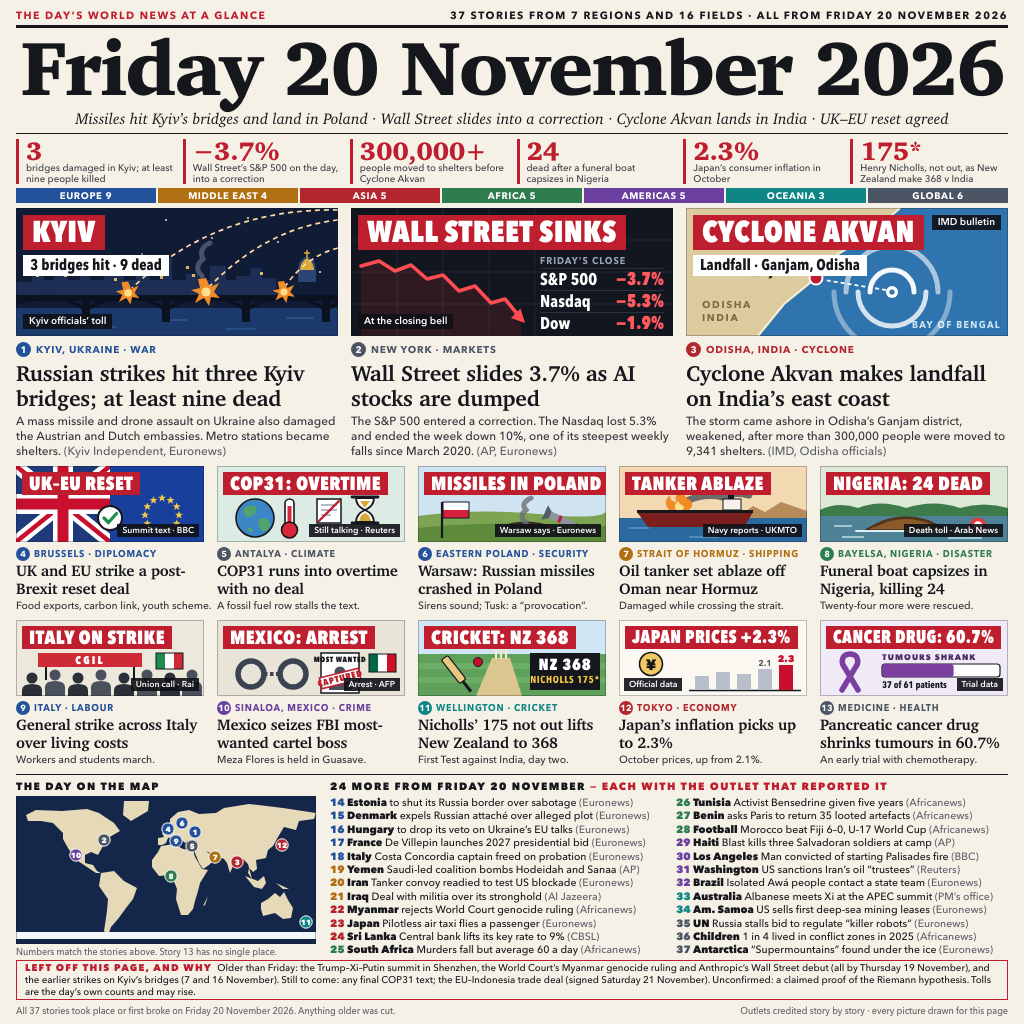
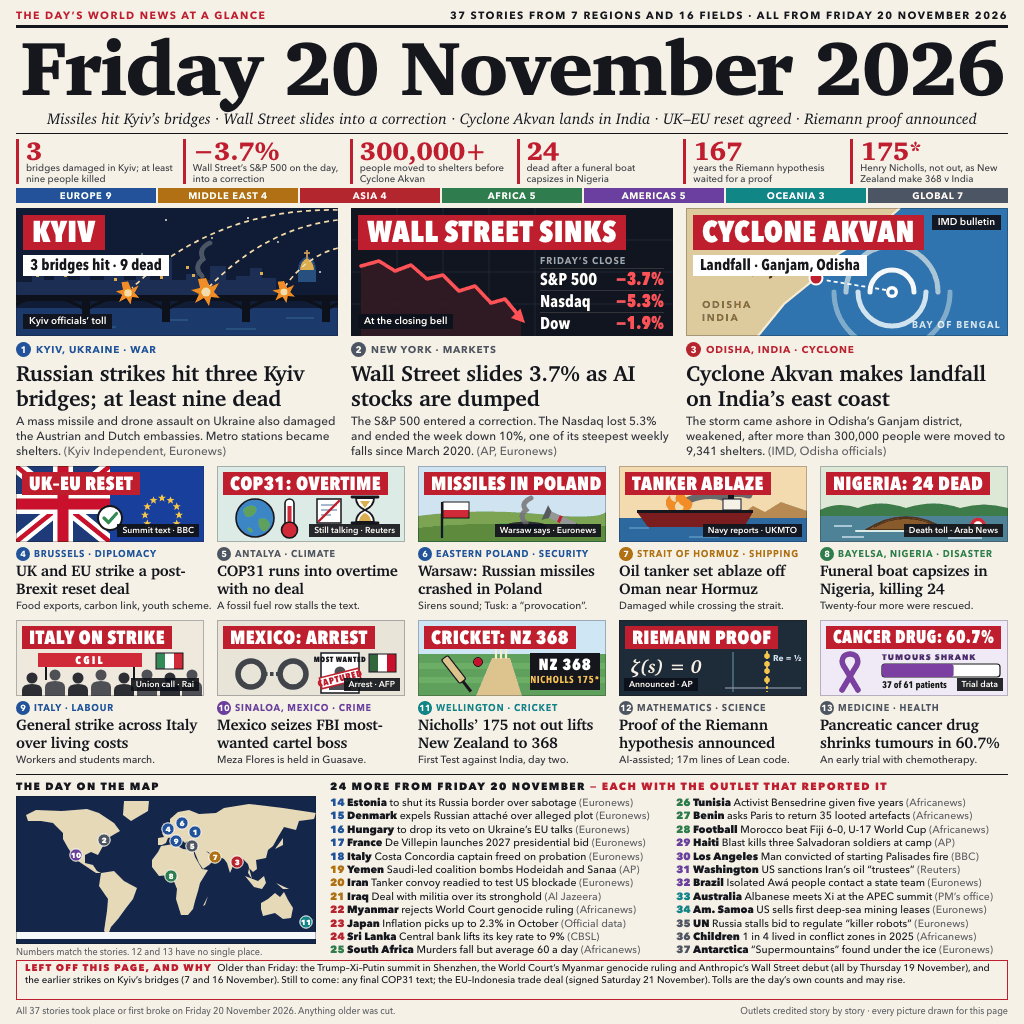
Add the announced proof of the Riemann hypothesis; cut the picture to 141 KB with a 160-colour palette

diff --git a/poster.html b/poster.html
@@ -97,7 +97,7 @@ h1{top:27px;height:80px;font:900 77px/80px var(--serif);letter-spacing:-2.2px;te
   <div class="abs kick"><span class="l">The day’s world news at a glance</span><span>37 stories from 7 regions and 16 fields · all from Friday 20 November 2026</span></div>
   <div class="abs bar" style="top:25px;height:3px"></div>
   <h1 class="abs">Friday 20 November 2026</h1>
-  <div class="abs deck">Missiles hit Kyiv’s bridges and land in Poland · Wall Street slides into a correction · Cyclone Akvan lands in India · UK–EU reset agreed</div>
+  <div class="abs deck">Missiles hit Kyiv’s bridges · Wall Street slides into a correction · Cyclone Akvan lands in India · UK–EU reset agreed · Riemann proof announced</div>
   <div class="abs bar" style="top:133px;height:1px"></div>
 
   <div class="abs nums">
@@ -105,12 +105,12 @@ h1{top:27px;height:80px;font:900 77px/80px var(--serif);letter-spacing:-2.2px;te
     <div><b>−3.7%</b><span>Wall Street’s S&amp;P 500 on the day, into a correction</span></div>
     <div><b>300,000+</b><span>people moved to shelters before Cyclone Akvan</span></div>
     <div><b>24</b><span>dead after a funeral boat capsizes in Nigeria</span></div>
-    <div><b>2.3%</b><span>Japan’s consumer inflation in October</span></div>
+    <div><b>167</b><span>years the Riemann hypothesis waited for a proof</span></div>
     <div><b>175*</b><span>Henry Nicholls, not out, as New Zealand make 368 v India</span></div>
   </div>
 
   <div class="abs regions">
-    <div class="eu">EUROPE 9</div><div class="me">MIDDLE EAST 4</div><div class="as">ASIA 5</div><div class="af">AFRICA 5</div><div class="am">AMERICAS 5</div><div class="oc">OCEANIA 3</div><div class="gl">GLOBAL 6</div>
+    <div class="eu">EUROPE 9</div><div class="me">MIDDLE EAST 4</div><div class="as">ASIA 4</div><div class="af">AFRICA 5</div><div class="am">AMERICAS 5</div><div class="oc">OCEANIA 3</div><div class="gl">GLOBAL 7</div>
   </div>
 
   <!-- 1 · Kyiv -->
@@ -367,21 +367,19 @@ h1{top:27px;height:80px;font:900 77px/80px var(--serif);letter-spacing:-2.2px;te
   <div class="story tile" style="left:619px;top:620px">
     <div class="pic">
       <svg viewBox="0 0 188 76">
-        <rect width="188" height="76" fill="#FBF8F1"/>
-        <circle cx="32" cy="44" r="11.500" fill="#F2C864" stroke="#15171C" stroke-width="1.6"/>
-        <text x="32" y="49.500" text-anchor="middle" font-family="Avenir Next,Helvetica Neue,Arial" font-weight="800" font-size="15" fill="#15171C">¥</text>
-        <path d="M70 70.500h112" stroke="#15171C" stroke-width="1.4"/>
-        <g fill="#B9BFCA"><rect x="76" y="56" width="14" height="14"/><rect x="97" y="52" width="14" height="18"/><rect x="118" y="54" width="14" height="16"/><rect x="139" y="49" width="14" height="21"/></g>
-        <rect x="160" y="45" width="14" height="25" fill="#C8102E"/>
-        <text x="146" y="46" text-anchor="middle" font-family="Avenir Next,Helvetica Neue,Arial" font-weight="700" font-size="8.500" fill="#5A5E67">2.1</text>
-        <text x="167" y="41.500" text-anchor="middle" font-family="Avenir Next,Helvetica Neue,Arial" font-weight="800" font-size="9.500" fill="#C8102E">2.3</text>
+        <rect width="188" height="76" fill="#1E2B38"/>
+        <text x="12" y="53" font-family="Charter,Georgia,serif" font-style="italic" font-weight="700" font-size="19" fill="#F4F1EA">ζ(s) = 0</text>
+        <path d="M106 68h76M114 32v40" stroke="#6F8296" stroke-width="1.3"/>
+        <path d="M148 31v41" stroke="#F6C945" stroke-width="1.8" stroke-dasharray="3 2"/>
+        <g fill="#F6C945"><circle cx="148" cy="36" r="2.800"/><circle cx="148" cy="44" r="2.800"/><circle cx="148" cy="51" r="2.800"/><circle cx="148" cy="60" r="2.800"/></g>
+        <text x="154" y="41" font-family="Avenir Next,Helvetica Neue,Arial" font-weight="700" font-size="8.500" fill="#CFE5F6">Re = ½</text>
       </svg>
-      <div class="chip sm">Japan prices +2.3%</div>
-      <div class="src" style="right:auto;left:5px">Official data</div>
+      <div class="chip">Riemann proof</div>
+      <div class="src" style="right:auto;left:5px">Announced · AP</div>
     </div>
-    <div class="tag c-as"><b class="n as">12</b>Tokyo · Economy</div>
-    <h2>Japan’s inflation picks up to 2.3%</h2>
-    <p>October prices, up from 2.1%.</p>
+    <div class="tag c-gl"><b class="n gl">12</b>Mathematics · Science</div>
+    <h2>Proof of the Riemann hypothesis announced</h2>
+    <p>AI-assisted; 17m lines of Lean code.</p>
   </div>
 
   <div class="story tile" style="left:820px;top:620px">
@@ -434,11 +432,10 @@ h1{top:27px;height:80px;font:900 77px/80px var(--serif);letter-spacing:-2.2px;te
           <g><circle cx="160" cy="40" r="6.200" fill="#23529B" stroke="#fff" stroke-width="1"/><text x="160" y="42.700">9</text></g>
           <g><circle cx="60" cy="54" r="6.200" fill="#6A3FA0" stroke="#fff" stroke-width="1"/><text x="60" y="56.700">10</text></g>
           <g><circle cx="290" cy="121" r="6.200" fill="#0F8686" stroke="#fff" stroke-width="1"/><text x="290" y="123.700">11</text></g>
-          <g><circle cx="266" cy="44" r="6.200" fill="#B3262E" stroke="#fff" stroke-width="1"/><text x="266" y="46.700">12</text></g>
         </g>
       </svg>
     </div>
-    <small>Numbers match the stories above. Story 13 has no single place.</small>
+    <small>Numbers match the stories. 12 and 13 have no single place.</small>
   </div>
 
   <!-- also -->
@@ -454,7 +451,7 @@ h1{top:27px;height:80px;font:900 77px/80px var(--serif);letter-spacing:-2.2px;te
       <li><u class="c-me">20</u><b>Iran</b> Tanker convoy readied to test US blockade <i>(Euronews)</i></li>
       <li><u class="c-me">21</u><b>Iraq</b> Deal with militia over its stronghold <i>(Al Jazeera)</i></li>
       <li><u class="c-as">22</u><b>Myanmar</b> rejects World Court genocide ruling <i>(Africanews)</i></li>
-      <li><u class="c-as">23</u><b>Japan</b> Pilotless air taxi flies a passenger <i>(Euronews)</i></li>
+      <li><u class="c-as">23</u><b>Japan</b> Inflation picks up to 2.3% in October <i>(Official data)</i></li>
       <li><u class="c-as">24</u><b>Sri Lanka</b> Central bank lifts its key rate to 9% <i>(CBSL)</i></li>
       <li><u class="c-af">25</u><b>South Africa</b> Murders fall but average 60 a day <i>(Africanews)</i></li>
       <li><u class="c-af">26</u><b>Tunisia</b> Activist Bensedrine given five years <i>(Africanews)</i></li>
@@ -472,7 +469,7 @@ h1{top:27px;height:80px;font:900 77px/80px var(--serif);letter-spacing:-2.2px;te
     </ol>
   </div>
 
-  <div class="abs check"><b>LEFT OFF THIS PAGE, AND WHY</b>Older than Friday: the Trump–Xi–Putin summit in Shenzhen, the World Court’s Myanmar genocide ruling and Anthropic’s Wall Street debut (all by Thursday 19 November), and the earlier strikes on Kyiv’s bridges (7 and 16 November). Still to come: any final COP31 text; the EU–Indonesia trade deal (signed Saturday 21 November). Unconfirmed: a claimed proof of the Riemann hypothesis. Tolls are the day’s own counts and may rise.</div>
+  <div class="abs check"><b>LEFT OFF THIS PAGE, AND WHY</b>Older than Friday: the Trump–Xi–Putin summit in Shenzhen, the World Court’s Myanmar genocide ruling and Anthropic’s Wall Street debut (all by Thursday 19 November), and the earlier strikes on Kyiv’s bridges (7 and 16 November). Still to come: any final COP31 text; the EU–Indonesia trade deal (signed Saturday 21 November). Tolls are the day’s own counts and may rise.</div>
 
   <div class="abs foot"><span>All 37 stories took place or first broke on Friday 20 November 2026. Anything older was cut.</span><span>Outlets credited story by story · every picture drawn for this page</span></div>
 </div>
